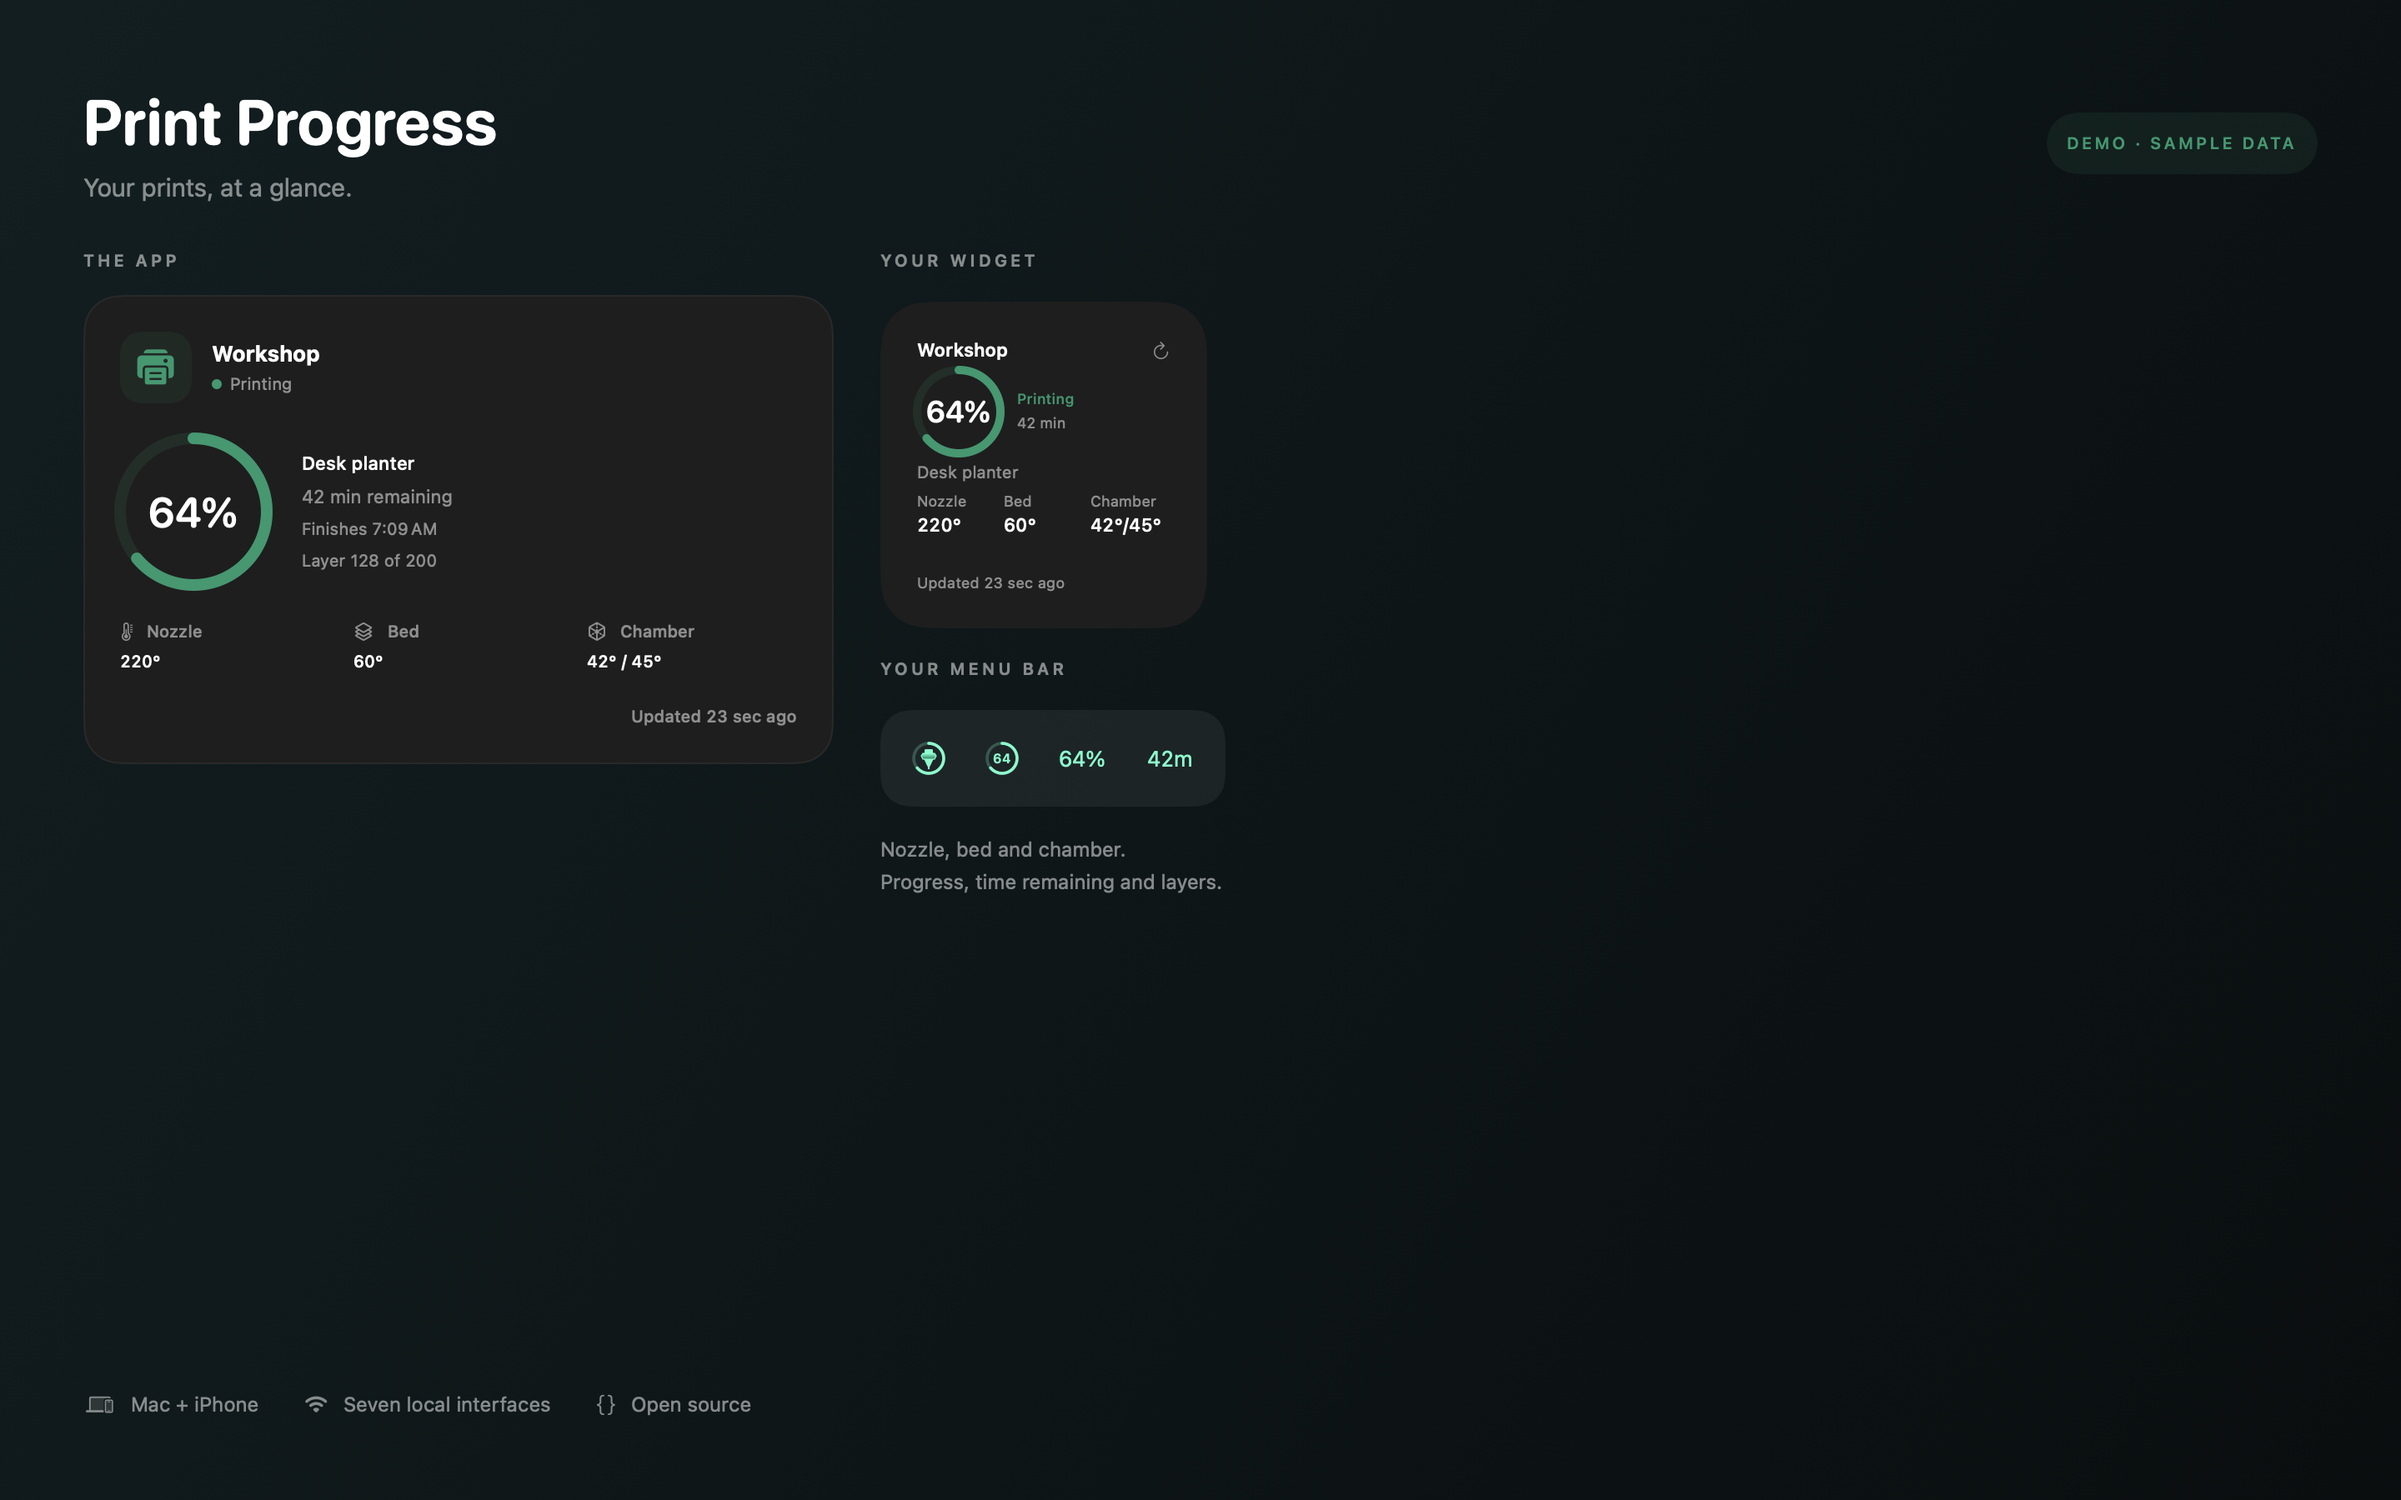
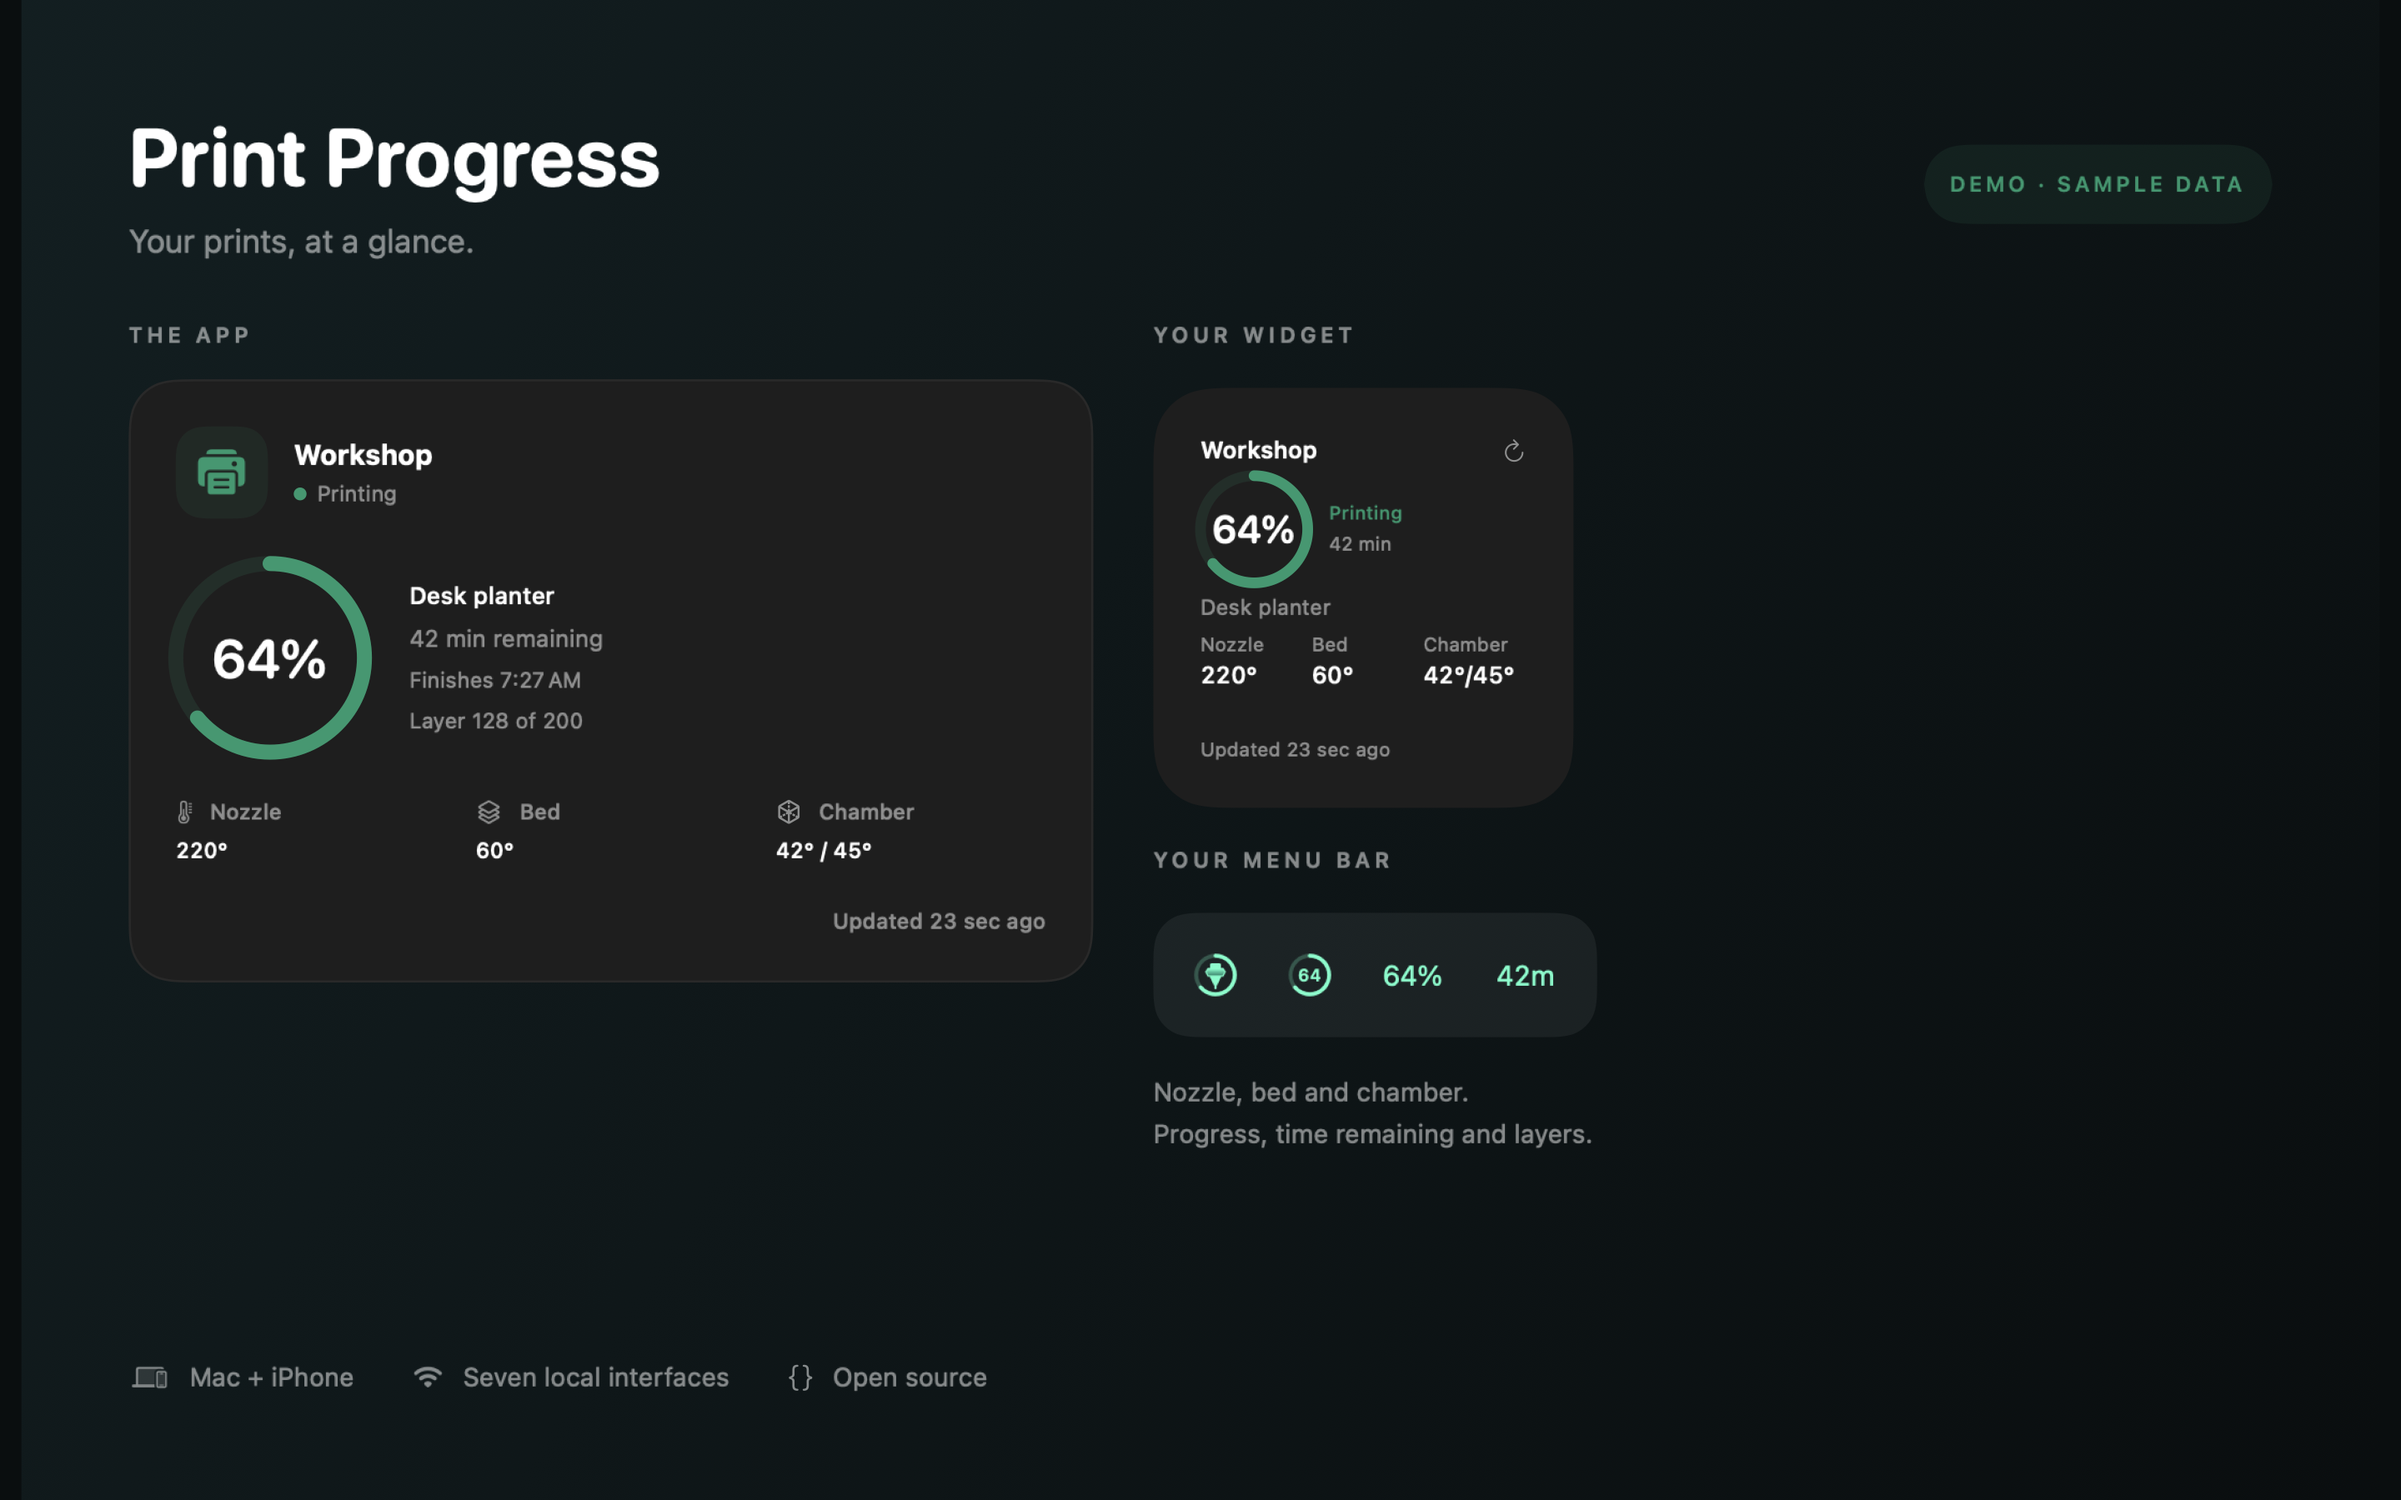
Document verified release tests and add device screenshots

diff --git a/scripts/MediaExporter.swift b/scripts/MediaExporter.swift
@@ -33,7 +33,11 @@ struct MediaExporter {
         }
         try render(Showcase(reading: DemoData.snapshots(date: date)[0]),
                    size: NSSize(width: 1100, height: 700), path: output.appendingPathComponent("overview.png"))
-        try render(Showcase(reading: DemoData.snapshots(date: date)[0]),
+        try render(Showcase(reading: DemoData.snapshots(date: date)[0])
+                       .frame(width: 1100, height: 700)
+                       .scaleEffect(900.0 / 700.0)
+                       .frame(width: 1440, height: 900)
+                       .background(Color(red: 0.035, green: 0.055, blue: 0.06)),
                    size: NSSize(width: 1440, height: 900),
                    path: output.appendingPathComponent("mac-store.png"))
         let demo = ProgressStore(dependencies: .demo)

diff --git a/docs/testing.md b/docs/testing.md
@@ -17,6 +17,8 @@ Core executable-line coverage is **95.61% (1,306 / 1,366)**, function coverage 9
 
 Both Mac and iOS Release archives build with their WidgetKit extensions. Reproduction commands are in the [README](../README.md#tests-and-live-connection-check).
 
+The [hosted macOS CI run](https://github.com/danielyaa5/3d-printer-widget/actions/runs/39432785593) also passed all test stages and the iOS app/widget build. Loopback fixture startup uses its known local hostname rather than depending on reverse DNS.
+
 ## Installed-app and hardware checks
 
 The preceding 0.3.1 device pass covered:
@@ -30,6 +32,8 @@ The preceding 0.3.1 device pass covered:
 - 479 fixture requests with zero unexpected printer-control operations. Temporary fixture profiles were removed.
 
 The 0.4.0 regression pass adds isolated demo states and verifies that failed certificate-pin persistence cannot leave an apparently saved pin in memory. Public demo media is generated from fictional readings, independently of live profiles.
+
+The installed 0.4.0 Mac release and physical iPhone were opened and checked with live printer readings and the isolated demo. Clean demo screenshots were captured on both devices. Reinstalling the complete Mac Release bundle passed strict signature verification for the app and widget, then relaunched with both saved printers intact.
 
 ## Limits
 

diff --git a/CHANGELOG.md b/CHANGELOG.md
@@ -8,6 +8,8 @@
 - Fixed certificate-pin persistence so an unsuccessful Keychain save cannot appear committed in memory.
 - Included the privacy manifest in both widget extensions.
 - Added continuous integration for core tests, native feature/layout tests, and an iOS build.
+- Fixed Mac installation to replace complete signed bundles, avoiding stale Debug resources after installing a Release build.
+- Removed reverse-DNS dependencies from loopback test fixtures so integration tests also run reliably on hosted Mac runners.
 
 ## 0.3.1
 

diff --git a/README.md b/README.md
@@ -10,6 +10,8 @@ See percent complete, time remaining, the current job, layers, and nozzle, bed, 
 
 The demo media uses fictional readings and production UI components. Its accelerated state changes illustrate the interface; they do not represent widget refresh frequency.
 
+[Installed Mac demo](docs/media/screenshots/mac-demo.jpg) · [Actual iPhone demo](docs/media/screenshots/iphone-demo.png)
+
 ## Supported connections
 
 | Printer | Connection | What you need |
